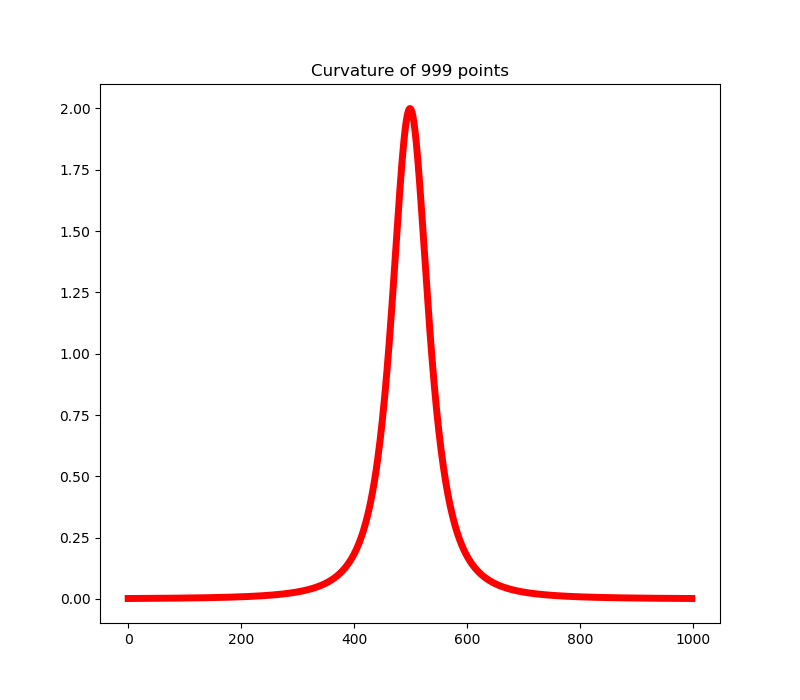
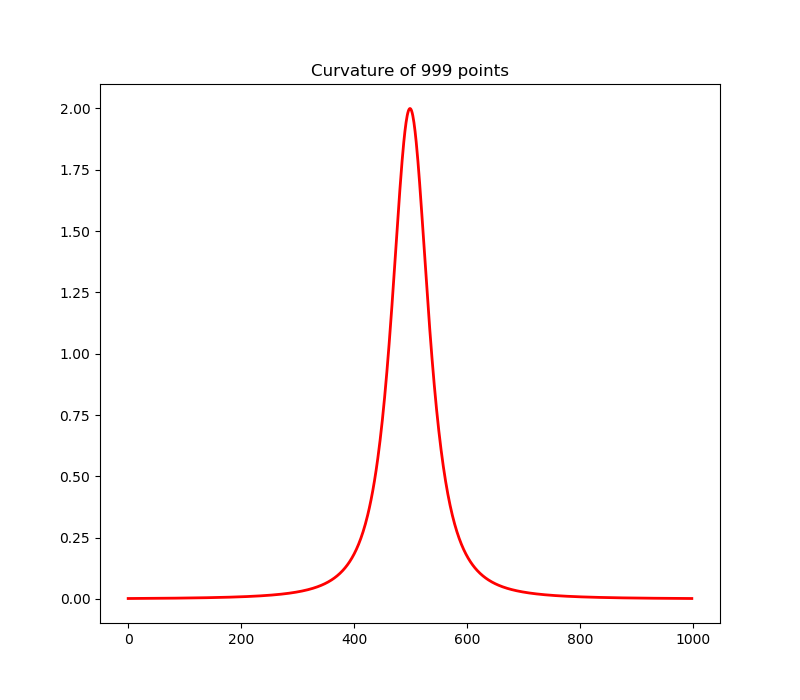
Describe ventricle file6

diff --git a/curvature.py b/curvature.py
@@ -48,7 +48,7 @@ class Curvature:
     def plot_curvature(self):
 
         fig, _ = plt.subplots(figsize=(8, 7))
-        _.plot(self.curvature, 'r-', lw=5)
+        _.plot(self.curvature, 'r-', lw=2)
         _.set_title('Curvature of {} points'.format(len(self.curvature)))
         fig.savefig('Curvature.png')
         return _
@@ -59,6 +59,11 @@ if __name__ == '__main__':
     x = np.linspace(-5, 5, 1001)
     y = (x ** 2)
     xy = list(zip(x, y))  # list of points in 2D space
+
+    fig, _ = plt.subplots(figsize=(8, 7))
+    _.plot(x, y, 'b-', lw=2)
+    _.set_title('Quadratic parabola')
+    fig.savefig('Parabola.png')
 
     curv = Curvature(line=xy)
     curv.calculate_curvature(gap=0)
